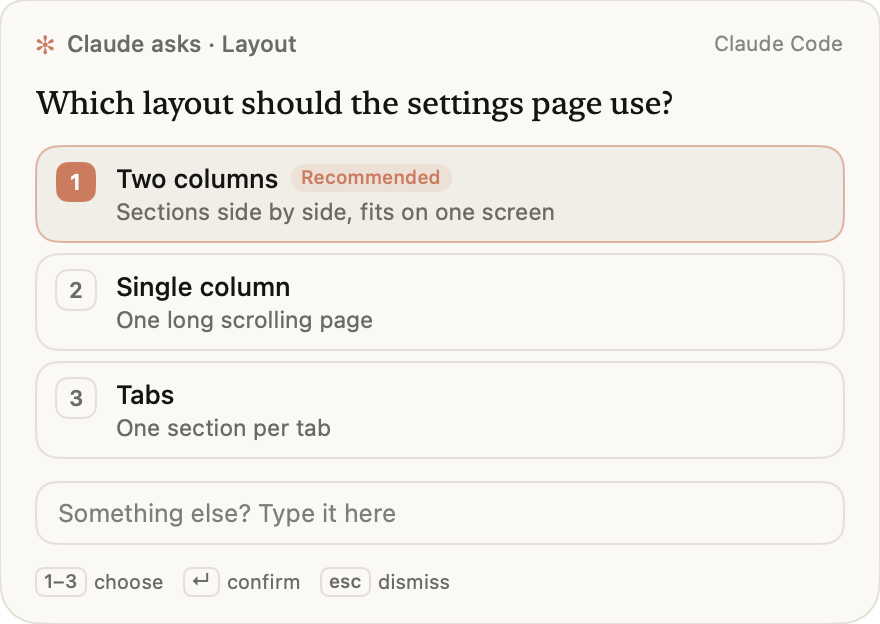
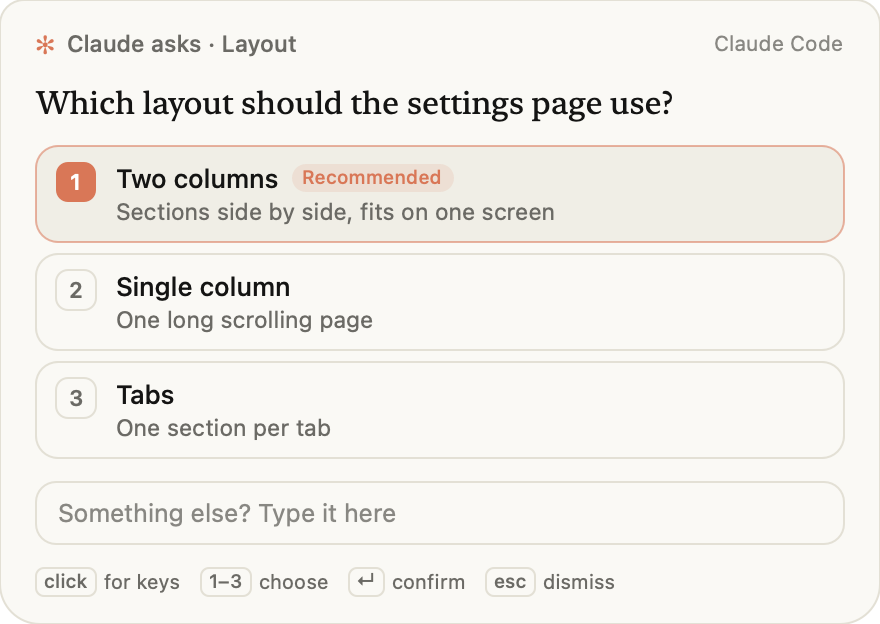
Ask Notch 0.2.0: rename from switchboard-notch for a new directory submission
plugin ask-notch / "Ask Notch", mirror sameeeeeeep/ask-notch (publish.sh; repo
not created). README "What it does on your machine" and Privacy describe the
osascript card; build.sh no longer compiles, signs or notarizes. LISTING.md is
prepared for a new submission with the owner's portal checklist (withdraw
ce733ea6..., submit the new bundle). New screenshots and compare-0.2.0.jpg
(old sb-card vs new card.js, light/dark, cat, real on-screen captures).

Changed region(s): [[0.0307, 0.883, 0.5216, 0.9744], [0.5523, 0.9135, 0.7057, 0.9744], [0.3375, 0.274, 0.4909, 0.3045]]

diff --git a/packages/notch-mod/listing/LISTING.md b/packages/notch-mod/listing/LISTING.md
@@ -1,98 +1,127 @@
-# Switchboard Notch: directory listing draft
+# Ask Notch: directory listing (new submission, 0.2.0)
 
-Portal: https://claude.ai/directory/manage → **Submit new** → **Plugin bundle**.
-For plugins, the portal reads the listing from `.claude-plugin/plugin.json` and `README.md`. You don't
-type most of it into a form: to change a field, edit the file, run `./publish.sh`, and **Re-validate**.
-Everything below is either already in those files, or is an answer you give in the form.
+Ask Notch replaces the **switchboard-notch** submission (portal id `ce733ea6-f8b8-4e94-bcbf-836559d96e85`,
+v0.1.3, in human review). It is a new plugin name, so it is a **new submission**, not a version of the old one.
+
+Portal: https://claude.ai/directory/manage. For plugins, the portal reads the listing from
+`.claude-plugin/plugin.json` and `README.md`. To change a field, edit the file, run `./build.sh && ./publish.sh`,
+and **Re-validate**. Everything below is either already in those files or is an answer you give in the form.
+
+## What changed vs switchboard-notch
+
+| | switchboard-notch 0.1.x | Ask Notch 0.2.0 |
+| --- | --- | --- |
+| Name | `switchboard-notch` / Switchboard Notch | `ask-notch` / Ask Notch |
+| The card | `helper/sb-card`, a compiled Swift binary (signed + notarized) | `helper/card.js`, plain JavaScript run by macOS's own `/usr/bin/osascript -l JavaScript` |
+| Directory scan | "ships code the scan can't read" (the binary) | no compiled code; every file is readable text or a PNG |
+| Look and behaviour | Claude design language card | the same card, pixel-matched (see `compare-0.2.0.jpg`) |
+| Keyboard on appear | could be handed activation when the app that started it was frontmost | appears as a background-only app, refuses to become key until clicked, hands activation back if macOS gives it anyway |
+| Settings | `/notch on\|off\|notch\|cursor\|test` | the same, plus `/notch companion cat\|off` (off by default) |
+| Repo / install | `sameeeeeeep/switchboard-notch` | `sameeeeeeep/ask-notch` |
 
 ## Source step (typed in the portal)
 
 | Field | Value |
 | --- | --- |
-| Repository | `sameeeeeeep/switchboard-notch` |
+| Repository | `sameeeeeeep/ask-notch` |
 | Plugin path | leave empty (the plugin is at the repository root) |
 | Branch or tag | leave empty (follows `main`) |
 
-Submit the small mirror repo, not `sameeeeeeep/switchboard` with path `packages/notch-mod`. In a subfolder,
-the validator also holds `hooks/register.js` ("Scripts the validator couldn't follow"), and `packages/` holds
-other plugins.
+Submit the small mirror repo, not `sameeeeeeep/switchboard` with path `packages/notch-mod`.
 
 ## Listing details (read from plugin.json and README.md)
 
-| Field | Value | Source | Status |
-| --- | --- | --- | --- |
-| Name (permanent) | `switchboard-notch` | plugin.json `name` | set |
-| Display name | Switchboard Notch | plugin.json `displayName` | set |
-| Short description | Claude's questions drop from your Mac's notch as a native card. Pick with 1-4, type your own answer, or press esc to answer in Claude Code as usual. | plugin.json `description` | set |
-| Long description | The README, shown as the listing description | `README.md` | set (about 690 words outside code blocks; 40 needed) |
-| Icon | `./assets/icon.png` (512×512 PNG, the Switchboard lime dot mark) | plugin.json `icon` | set; reaches GitHub on the next `./publish.sh` |
-| Version | 0.1.0 | plugin.json `version` | set |
-| Author / publisher | sameeeeeeep | plugin.json `author.name` | set (consider `Sameep Rehlan` or `The Last Prompt` if you want a recognisable publisher) |
-| License | MIT | plugin.json `license` + `LICENSE` file | set |
-| Homepage | https://thelastprompt.ai/switchboard | plugin.json `homepage` | live (200) |
-| Repository | https://github.com/sameeeeeeep/switchboard-notch | plugin.json `repository` | live |
-| Documentation URL | https://github.com/sameeeeeeep/switchboard-notch#readme | plugin.json `documentationUrl` | live |
-| Support URL | https://github.com/sameeeeeeep/switchboard-notch/issues | plugin.json `supportUrl` | live (issues enabled) |
-| Privacy policy URL | https://github.com/sameeeeeeep/switchboard-notch#privacy | plugin.json `privacyPolicyUrl` | **NOT LIVE YET**: the `## Privacy` README section exists only locally until `./publish.sh` runs. The existing https://thelastprompt.ai/switchboard/privacy covers the browser extension and daemon only, not this plugin, so it isn't used. |
-| Terms of service URL | not set | plugin.json `termsOfServiceUrl` | optional; there is no thelastprompt.ai terms page (404) |
-| Keywords | notch, macos, mod, questions, AskUserQuestion | plugin.json `keywords` | set |
-| Category | not asked for plugins in the current docs (only connectors have "one to five categories"). If the form asks, pick **Developer tools**, then **Productivity**. | portal | n/a |
-| Supported surfaces | Claude Code only (macOS). The portal works this out from the components. Hooks are "Ignored" in Chat, so the listing will show it doing nothing in claude.ai chat. | derived | expected |
+| Field | Value | Source |
+| --- | --- | --- |
+| Name (permanent) | `ask-notch` | plugin.json `name` |
+| Display name | Ask Notch | plugin.json `displayName` |
+| Short description | Claude's questions drop from your Mac's notch as a card. Click an option, pick with 1-4, type your own answer, or press esc to answer in Claude Code as usual. | plugin.json `description` |
+| Long description | The README | `README.md` |
+| Icon | `./assets/icon.png` (512×512; still the Switchboard dot mark, replace if Ask Notch gets its own) | plugin.json `icon` |
+| Version | 0.2.0 | plugin.json `version` |
+| Author / publisher | sameeeeeeep | plugin.json `author.name` |
+| License | MIT | plugin.json `license` + `LICENSE` (copied by publish.sh) |
+| Homepage | https://github.com/sameeeeeeep/ask-notch | plugin.json `homepage` (live once the repo exists) |
+| Repository | https://github.com/sameeeeeeep/ask-notch | plugin.json `repository` |
+| Documentation URL | https://github.com/sameeeeeeep/ask-notch#readme | plugin.json `documentationUrl` |
+| Support URL | https://github.com/sameeeeeeep/ask-notch/issues | plugin.json `supportUrl` (enable issues on the new repo) |
+| Privacy policy URL | https://github.com/sameeeeeeep/ask-notch#privacy | plugin.json `privacyPolicyUrl` |
+| Keywords | notch, macos, mod, questions, AskUserQuestion | plugin.json `keywords` |
+| Category | if asked: **Developer tools**, then **Productivity** | portal |
+| Supported surfaces | Claude Code only (macOS). Hooks are "Ignored" in Chat. | derived |
 
-### Short description, alternatives if you want a different one (edit plugin.json `description`)
+## Three working examples (Directory Policy 3.E, also in the README)
 
-- Current: "Claude's questions drop from your Mac's notch as a native card. Pick with 1-4, type your own answer, or press esc to answer in Claude Code as usual."
-- Shorter: "Answer Claude Code's questions from a native card at your Mac's notch."
-
-### Long description
-
-This is the README. Its sections: what it does (with screenshot) · Try it for one session · Keep it · Settings ·
-Examples (3 use cases, which Directory Policy 3.E asks for) · Where it works · Troubleshooting · What it does on your
-machine · Privacy · Support · Develop.
+1. "Add a settings page to this app. Ask me which layout to use before you build it." → the card shows the
+   layouts, with Claude's pick highlighted; click one, or click the card and press 1–4 or ↵.
+2. "Clean up the old migration files, but ask me before deleting anything." → the confirmation question
+   appears at the notch while you're in another app; answer it there and Claude carries on.
+3. "Help me name this CLI tool and ask me to choose." → click the card's text box, type your own name and
+   press ↵; Claude receives exactly what you typed.
 
 ## Data handling step (answer in the form)
 
 | Question | Answer |
 | --- | --- |
-| Does the plugin read or store personal data? | **No.** It reads the text of Claude's `AskUserQuestion` call to draw the card. It stores only the `/notch` setting (on/off, notch/cursor) in Claude Code's local mod storage. |
-| Does it send data to services other than its declared connectors? | **No.** It has no connectors and makes no network requests. `helper/sb-card` is a local, one-shot window that prints the answer to stdout. |
-| How long does it keep data? | It keeps no data. The setting stays until the plugin is uninstalled. |
+| Does the plugin read or store personal data? | **No.** It reads the text of Claude's `AskUserQuestion` call to draw the card. It stores only the `/notch` settings (on/off, notch/cursor, companion) in Claude Code's local mod storage. |
+| Does it send data to services other than its declared connectors? | **No.** It has no connectors and makes no network requests. The card is `osascript` running `helper/card.js`, a local one-shot window that prints the answer to stdout. |
+| How long does it keep data? | It keeps no data. The settings stay until the plugin is uninstalled. |
 | Is it intended for people under 18? | **No.** |
+
+## Privacy (the README's Privacy section, for reference)
+
+Ask Notch collects nothing. The question, its options and your answer pass only between Claude Code and
+`osascript` running `helper/card.js` on your Mac. No network access, no analytics, no account. The only thing
+saved is your `/notch` settings, in Claude Code's local storage for this plugin; uninstalling removes it.
 
 ## Compliance step
 
-1. Check that the prefilled contact email is one you read. Anthropic emails it about the submission.
-   Security contact: sameeeeeeep@gmail.com (also in the README Support section).
+1. Check that the prefilled contact email is one you read. Security contact: sameeeeeeep@gmail.com.
 2. Select all four acknowledgements (Directory Terms and Directory Policy).
 
 ## Review and submit step
 
-- **How new versions reach the directory**: keep **GitHub push webhook**, then select **Set up push updates**
-  (needs admin on the mirror repo). `./publish.sh` pushes to `main`, so each publish becomes a new directory version.
-- **Auto-publish passing versions**: leave it off for the first submission. A reviewer publishes the first version anyway.
+- **How new versions reach the directory**: keep **GitHub push webhook**, then **Set up push updates**
+  (needs admin on `sameeeeeeep/ask-notch`). `./publish.sh` pushes to `main`.
+- **Auto-publish passing versions**: leave off for the first submission.
 - Select **Submit for review**.
 
-## Reviewer notes (paste if the form has a notes box, or keep for a reply to a hold)
+## Reviewer notes (paste if the form has a notes box)
 
-> Switchboard Notch is a Claude Code mod (hooks/register.js, Claude Code v2.1.287+) that handles only the
-> `AskUserQuestion` tool call. For single-choice questions it runs `helper/sb-card`, a native macOS window,
-> and returns the picked label in the same shape as Claude Code's own dialog. Esc, a 9-minute timeout,
-> multi-select, or any helper failure falls through to Claude Code's own dialog (`next(e)`), so a question is
-> never lost. `helper/sb-card` is a universal Mach-O built from `helper/sb-card.swift` (in the repo, about 230
-> lines, AppKit + SwiftUI). It is signed with Developer ID (STAYOFT VENTURES PRIVATE LIMITED, 55354KFTHU) and
-> notarized. You can rebuild it with `./build.sh`. It makes no network requests and writes no files.
-> `claude plugin validate` lists every hook and call. No test account is needed. To test: install,
-> run `/notch test` on a Mac, or ask Claude "ask me which layout to use for a settings page".
+> Ask Notch is a Claude Code mod (hooks/register.js, Claude Code v2.1.287+) that handles only the
+> `AskUserQuestion` tool call. For single-choice questions it runs macOS's built-in
+> `/usr/bin/osascript -l JavaScript helper/card.js '<json>'`, a readable script (JavaScript for Automation,
+> AppKit bridge) that draws one window and prints the picked label, which the mod returns in the same shape as
+> Claude Code's own dialog. Esc, a 9-minute timeout, multi-select, or any card failure falls through to Claude
+> Code's own dialog (`next(e)`), so a question is never lost. The plugin ships no compiled code. The card makes
+> no network requests, writes no files, reads no environment and needs no permissions; it appears without
+> activating and refuses the keyboard until clicked. Optional `/notch companion cat` shows small PNGs from
+> `assets/companion/cat/` (the author's own painted art). `claude plugin validate` lists every hook and call.
+> No test account is needed. To test: install, run `/notch test` on a Mac, or ask Claude "ask me which layout
+> to use for a settings page". This replaces our earlier submission switchboard-notch (withdrawn).
 
-## Three working examples (Directory Policy 3.E, also in the README)
+## Owner's portal checklist
 
-1. "Add a settings page to this app. Ask me which layout to use before you build it." → the card shows the layouts, with Claude's pick highlighted.
-2. "Clean up the old migration files, but ask me before deleting anything." → the confirmation question appears at the notch while you're in another app.
-3. "Help me name this CLI tool and ask me to choose." → type your own name in the card's text box and press ↵.
+Nothing below has been run. In order:
 
-## Assets in this folder
+1. Review and merge branch `ask-notch-0.2.0` in `sameeeeeeep/switchboard` (relay repo).
+2. Human test card on your Mac (the one thing not automated): `claude --plugin-dir "$PWD"` in
+   `packages/notch-mod`, run `/notch test`; while typing in another app the card must not take keys; click
+   an option (answers in one click); run it again, click the card, press `2`; again, click the text box and type
+   `2 apples` ↵; again with `/notch cursor` and `/notch companion cat`. Optional: `sh tests/card-selftest.sh`.
+3. Create the mirror: `gh repo create sameeeeeeep/ask-notch --public` (enable Issues).
+4. `cd packages/notch-mod && ./build.sh && ./publish.sh` (pushes the mirror, creates release v0.2.0 with
+   `ask-notch.zip`).
+5. Portal → switchboard-notch submission `ce733ea6-f8b8-4e94-bcbf-836559d96e85` → **Withdraw**.
+6. Portal → **Submit new** → **Plugin bundle** → repository `sameeeeeeep/ask-notch`, then the steps above
+   (data handling, compliance, push webhook, reviewer notes) → **Submit for review**.
+7. Optional: archive `sameeeeeeep/switchboard-notch` or point its README at ask-notch.
 
-- `card-light.png`, `card-dark.png`: 880×624 captures of the real card (`SB_CARD_APPEARANCE=light|dark helper/sb-card ...`).
-  Plugin listings don't take screenshots in the current docs; only MCP Apps have a carousel. The light one is
-  embedded in the README from `assets/card-light.png`, which is the published copy.
-- The icon is `../assets/icon.png`, rendered from `landing/public/favicon.svg`.
+## Assets in this folder (not shipped in the plugin)
+
+- `card-light.png`, `card-dark.png`: 880×624 renders of the card (also `../assets/card-*.png`, the README image).
+- `card-cat-light.png`, `card-cat-dark.png`: the card with `/notch companion cat`.
+- `compare-0.2.0.jpg`: old sb-card vs new card.js, light and dark, the pixel difference, the cat, and two real
+  on-screen window captures (notch + cat, cursor mode).
+- `render-card.js`: paints the card to a PNG with card.js's own painter, without opening a window.
+- `make-companion.py`: builds `../assets/companion/cat/` from the painted orange cat.

diff --git a/packages/notch-mod/README.md b/packages/notch-mod/README.md
@@ -1,7 +1,7 @@
-# Switchboard Notch
+# Ask Notch
 
-When Claude asks you something, the question drops from your Mac's notch as a native card, so you
-can answer without switching back to the terminal.
+When Claude asks you something, the question drops from your Mac's notch as a card, so you can
+answer without switching back to the terminal.
 
 ![A question from Claude shown as a card at the Mac notch, with three numbered options and a text box](assets/card-light.png)
 
@@ -14,14 +14,15 @@ can answer without switching back to the terminal.
 
 Needs macOS 13+ and Claude Code **v2.1.287** or later (`claude --version`). It is a Claude Code
 [mod](https://code.claude.com/docs/en/plugins/mods/overview): it hooks Claude's `AskUserQuestion`
-tool and nothing else.
+tool and nothing else. Nothing is compiled: the card is a JavaScript file that macOS's own
+`osascript` runs.
 
 ## Try it for one session
 
 Nothing is installed and nothing is written to your settings:
 
 ```sh
-claude --plugin-url https://github.com/sameeeeeeep/switchboard-notch/releases/latest/download/switchboard-notch.zip
+claude --plugin-url https://github.com/sameeeeeeep/ask-notch/releases/latest/download/ask-notch.zip
 ```
 
 Ask Claude something that makes it ask you back, or run `/notch test`.
@@ -31,10 +32,10 @@ Ask Claude something that makes it ask you back, or run `/notch test`.
 In Claude Code (v2.1.275+ adds the marketplace and installs in one step):
 
 ```text
-/plugin install switchboard-notch --marketplace sameeeeeeep/switchboard-notch
+/plugin install ask-notch --marketplace sameeeeeeep/ask-notch
 ```
 
-Updates: `claude plugin update switchboard-notch@switchboard-notch`.
+Updates: `claude plugin update ask-notch@ask-notch`.
 
 ## Settings
 
@@ -42,6 +43,8 @@ Updates: `claude plugin update switchboard-notch@switchboard-notch`.
 | --- | --- |
 | `/notch cursor` | Open cards beside the pointer instead of at the notch |
 | `/notch notch` | Back to the notch |
+| `/notch companion cat` | A small painted cat hops out beside the card and waits with you |
+| `/notch companion off` | No companion (the default) |
 | `/notch off` / `/notch on` | Use Claude Code's own dialog / the card |
 | `/notch test` | Show a test card |
 
@@ -52,11 +55,12 @@ Multi-select, free-text and number questions always use Claude Code's own form.
 Any request where Claude stops to ask you a question shows the card. Three to try:
 
 1. **A design choice.** "Add a settings page to this app. Ask me which layout to use before you
-   build it." The card shows the layouts Claude proposes, with its pick highlighted. Press **1–4** or **↵**.
+   build it." The card shows the layouts Claude proposes, with its pick highlighted. Click one, or
+   click the card and press **1–4** or **↵**.
 2. **A risky step.** "Clean up the old migration files, but ask me before deleting anything." Claude's
    question lands at the notch while you work in another app; answer it there and Claude carries on.
-3. **Your own answer.** "Help me name this CLI tool and ask me to choose." Ignore the options, type
-   a name in the card's text box, and press **↵**. Claude receives exactly what you typed.
+3. **Your own answer.** "Help me name this CLI tool and ask me to choose." Ignore the options, click
+   the card's text box, type a name, and press **↵**. Claude receives exactly what you typed.
 
 `/notch test` shows a sample card without asking Claude anything.
 
@@ -71,46 +75,50 @@ as usual.
 ## Troubleshooting
 
 - **No card appears.** Run `claude --version` (needs v2.1.287+), then `/plugin` and look for
-  `switchboard-notch` in the `mods active` line under the tabs. Run `/notch test`. If `/notch` is off, run `/notch on`.
+  `ask-notch` in the `mods active` line under the tabs. Run `/notch test`. If `/notch` is off, run `/notch on`.
 - **The card opens on the wrong screen.** Run `/notch cursor` to open it beside the pointer.
 - **You'd rather answer in the terminal.** Press **esc** on any card, or run `/notch off`.
 
 ## What it does on your machine
 
-Everything the mod does is in [`hooks/register.js`](hooks/register.js) (about 90 lines):
+The mod is [`hooks/register.js`](hooks/register.js) (about 100 lines) and the card is
+[`helper/card.js`](helper/card.js) (about 600 lines). Both are plain JavaScript you can read; the
+plugin ships no compiled code.
 
 - **Which tool it answers, and when.** It handles only Claude Code's `AskUserQuestion` tool, and
   only single-choice questions. When you pick or type an answer in the card, the mod returns that
   answer in place of Claude Code's own question dialog, in the same shape the dialog returns. If you
   press esc, the card times out (9 minutes), the question is multi-select, text or number, or the
   card can't start, it hands the question back to Claude Code's dialog unchanged.
-- **The one program it starts, and why.** It runs `helper/sb-card` (in this plugin) to draw the card,
-  with one argument: a JSON object holding the question, its options, and where to show the card.
+- **The one program it starts, and why.** It runs macOS's built-in script runner,
+  `/usr/bin/osascript -l JavaScript helper/card.js`, with one more argument: a JSON object holding the
+  question, its options, where to show the card and, if you turned one on, the companion's folder.
   It starts nothing else and runs no shell.
+- **What the card does.** `helper/card.js` uses macOS's JavaScript bridge to AppKit to draw one
+  window, reads the pointer position (for `/notch cursor`) and, with a companion, the pictures in
+  `assets/companion/`. It prints your answer as one line of JSON and exits. It makes no network
+  requests, writes no files, reads no environment variables and needs no permissions. It refuses
+  the keyboard until you click it, and appears without activating, so it can't take keystrokes
+  meant for the app you're using.
 - **What it reads, and where that goes.** It reads the question Claude is asking (part of your
-  conversation) and passes it to `helper/sb-card` as that argument. `helper/sb-card` prints your
-  answer and exits, and the mod gives the answer back to Claude. Nothing is sent anywhere else: the
-  mod makes no network requests, and neither does `helper/sb-card`.
-- **What it stores.** Only your `/notch` setting (on or off, notch or cursor), in Claude Code's
-  local storage for this plugin.
+  conversation) and passes it to the card as that argument. The card prints your answer and exits,
+  and the mod gives the answer back to Claude. Nothing is sent anywhere else.
+- **What it stores.** Only your `/notch` settings (on or off, notch or cursor, companion), in
+  Claude Code's local storage for this plugin.
 
-`helper/sb-card` is a small native macOS program built from
-[`helper/sb-card.swift`](helper/sb-card.swift) (about 230 lines of AppKit and SwiftUI). It needs no
-permissions and writes no files. It is signed with Developer ID (STAYOFT VENTURES PRIVATE LIMITED,
-55354KFTHU) and notarized by Apple. To list the mod's hooks and calls yourself, run
-`claude plugin validate` on this directory.
+To list the mod's hooks and calls yourself, run `claude plugin validate` on this directory.
 
 ## Privacy
 
-Switchboard Notch collects nothing. The question, its options and your answer pass only between
-Claude Code and `helper/sb-card` on your Mac. There is no network access, no analytics and no
-account. The only thing saved is your `/notch` setting (on or off, notch or cursor), in Claude
-Code's local storage for this plugin; uninstalling the plugin removes it.
+Ask Notch collects nothing. The question, its options and your answer pass only between Claude Code
+and `osascript` running `helper/card.js` on your Mac. There is no network access, no analytics and
+no account. The only thing saved is your `/notch` settings (on or off, notch or cursor, companion),
+in Claude Code's local storage for this plugin; uninstalling the plugin removes it.
 
 ## Support
 
 Report problems or ask questions at
-[github.com/sameeeeeeep/switchboard-notch/issues](https://github.com/sameeeeeeep/switchboard-notch/issues).
+[github.com/sameeeeeeep/ask-notch/issues](https://github.com/sameeeeeeep/ask-notch/issues).
 For security issues, email [sameeeeeeep@gmail.com](mailto:sameeeeeeep@gmail.com) instead of opening a public issue.
 
 ## Develop
@@ -121,4 +129,5 @@ in the Switchboard repo, which also holds the build and release scripts; this re
 ```sh
 claude --plugin-dir "$PWD"          # load a checkout for one session; edits hot-reload
 claude plugin test                   # unit tests (no session needed)
+sh tests/card-selftest.sh            # the real card, off-screen, driven from inside its own process
 ```
